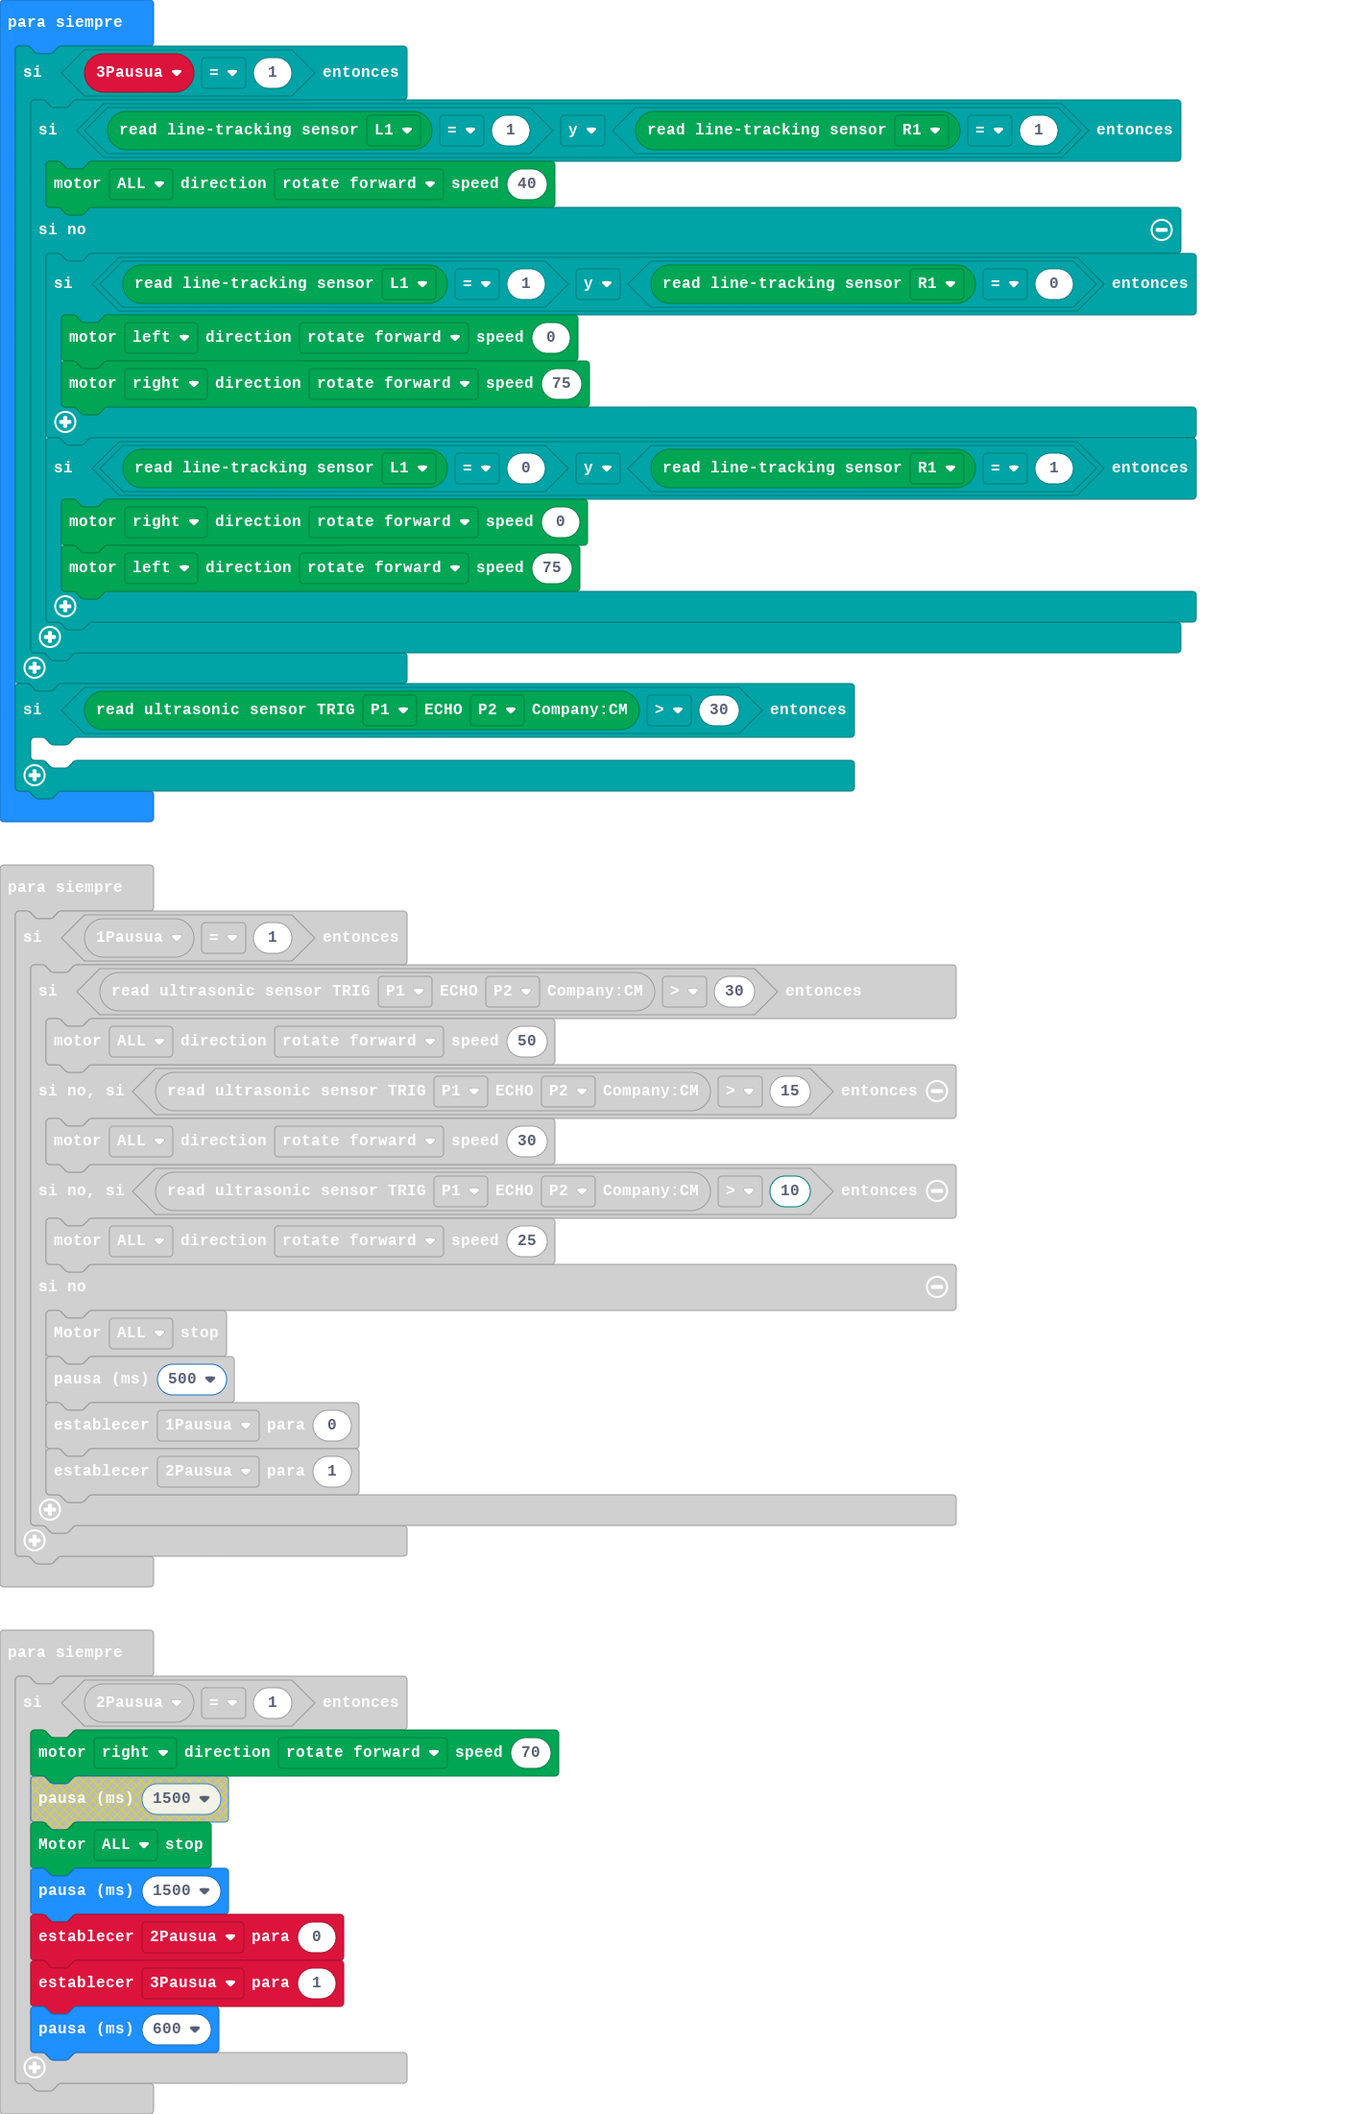
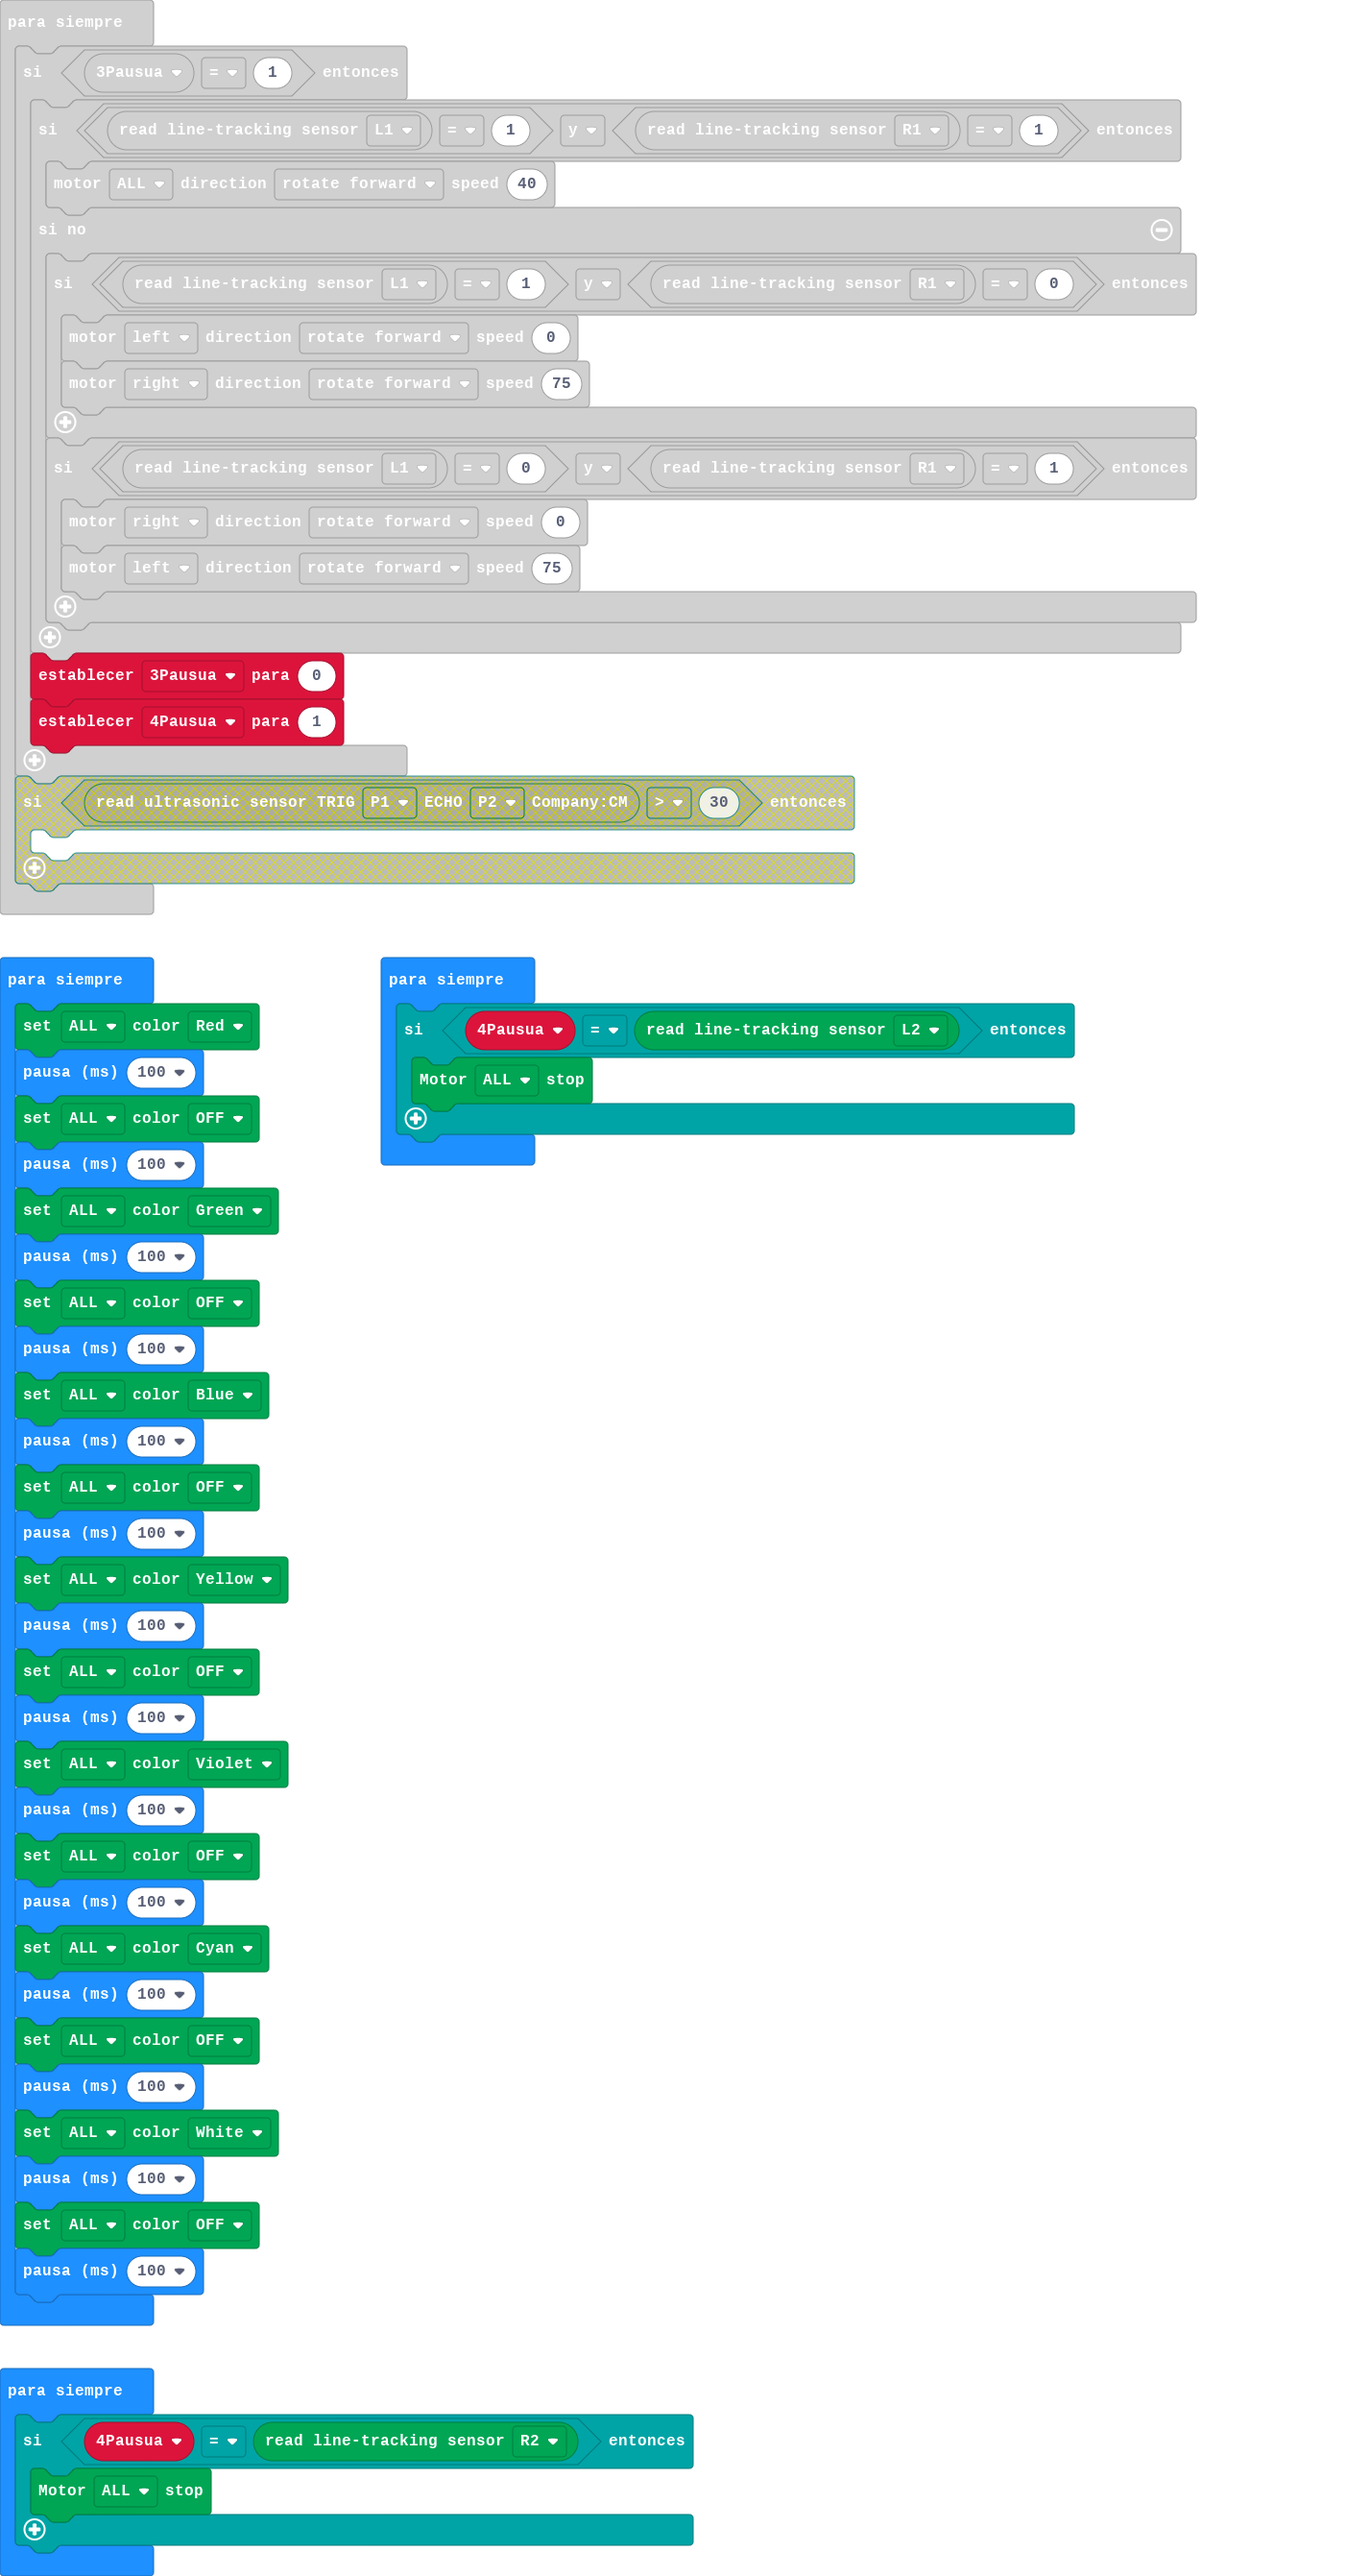
Actualizar main.blocks, main.ts

diff --git a/main.ts b/main.ts
@@ -1,3 +1,4 @@
+let _4Pausua = 0
 DFRobotMaqueenPlus.I2CInit()
 let _1Pausua = 1
 let _2Pausua = 0
@@ -16,9 +17,8 @@ basic.forever(function () {
                 DFRobotMaqueenPlus.mototRun(Motors.M1, Dir.CW, 75)
             }
         }
-    }
-    if (DFRobotMaqueenPlus.ultraSonic(PIN.P1, PIN.P2) > 30) {
-    	
+        _3Pausua = 0
+        _4Pausua = 1
     }
 })
 basic.forever(function () {
@@ -45,5 +45,45 @@ basic.forever(function () {
         basic.pause(1500)
         _2Pausua = 0
         _3Pausua = 1
+    }
+})
+basic.forever(function () {
+    DFRobotMaqueenPlus.setRGBLight(RGBLight.RGBA, Color.RED)
+    basic.pause(100)
+    DFRobotMaqueenPlus.setRGBLight(RGBLight.RGBA, Color.OFF)
+    basic.pause(100)
+    DFRobotMaqueenPlus.setRGBLight(RGBLight.RGBA, Color.GREEN)
+    basic.pause(100)
+    DFRobotMaqueenPlus.setRGBLight(RGBLight.RGBA, Color.OFF)
+    basic.pause(100)
+    DFRobotMaqueenPlus.setRGBLight(RGBLight.RGBA, Color.BLUE)
+    basic.pause(100)
+    DFRobotMaqueenPlus.setRGBLight(RGBLight.RGBA, Color.OFF)
+    basic.pause(100)
+    DFRobotMaqueenPlus.setRGBLight(RGBLight.RGBA, Color.YELLOW)
+    basic.pause(100)
+    DFRobotMaqueenPlus.setRGBLight(RGBLight.RGBA, Color.OFF)
+    basic.pause(100)
+    DFRobotMaqueenPlus.setRGBLight(RGBLight.RGBA, Color.PINK)
+    basic.pause(100)
+    DFRobotMaqueenPlus.setRGBLight(RGBLight.RGBA, Color.OFF)
+    basic.pause(100)
+    DFRobotMaqueenPlus.setRGBLight(RGBLight.RGBA, Color.CYAN)
+    basic.pause(100)
+    DFRobotMaqueenPlus.setRGBLight(RGBLight.RGBA, Color.OFF)
+    basic.pause(100)
+    DFRobotMaqueenPlus.setRGBLight(RGBLight.RGBA, Color.WHITH)
+    basic.pause(100)
+    DFRobotMaqueenPlus.setRGBLight(RGBLight.RGBA, Color.OFF)
+    basic.pause(100)
+})
+basic.forever(function () {
+    if (_4Pausua == DFRobotMaqueenPlus.readPatrol(Patrol.L2)) {
+        DFRobotMaqueenPlus.mototStop(Motors.ALL)
+    }
+})
+basic.forever(function () {
+    if (_4Pausua == DFRobotMaqueenPlus.readPatrol(Patrol.R2)) {
+        DFRobotMaqueenPlus.mototStop(Motors.ALL)
     }
 })
